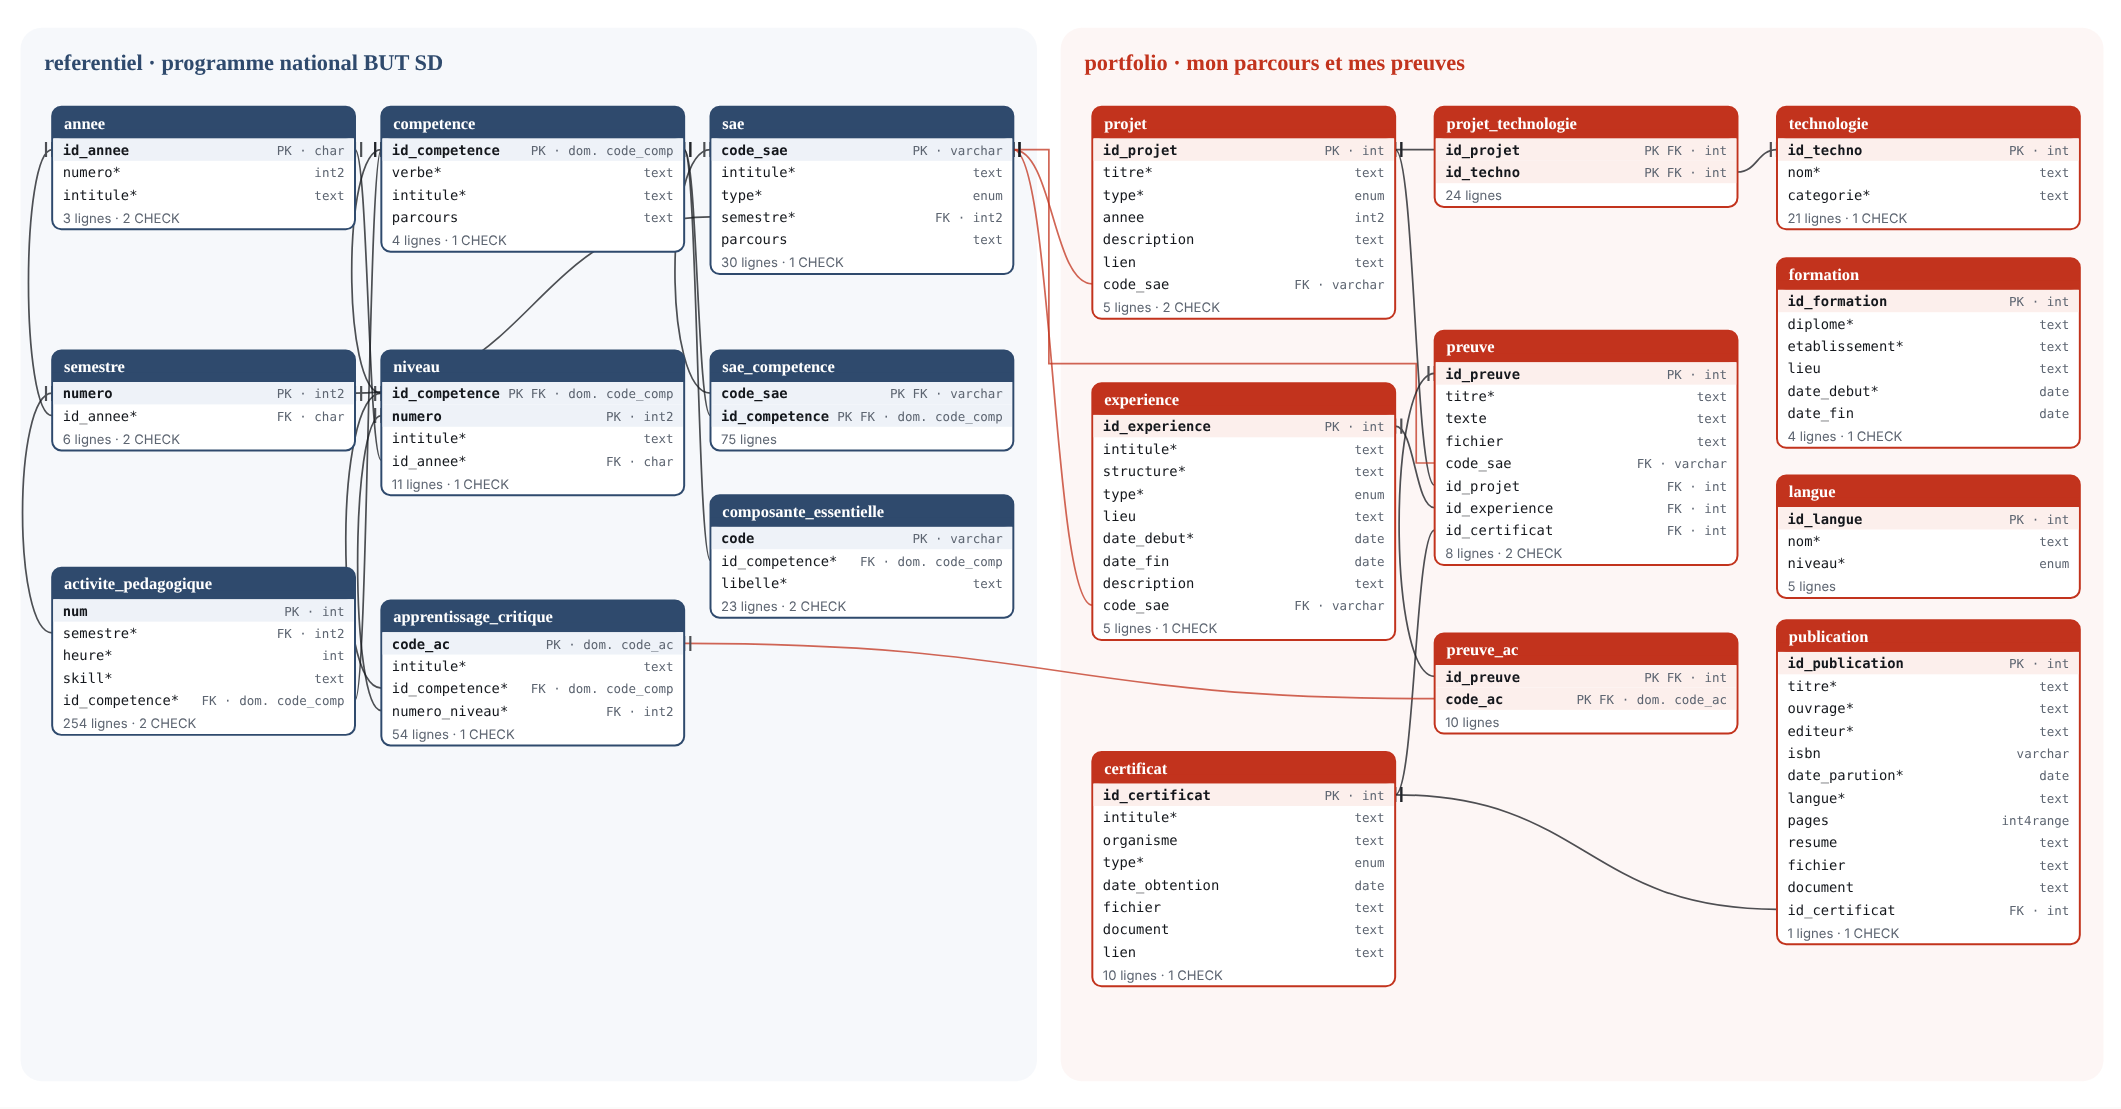
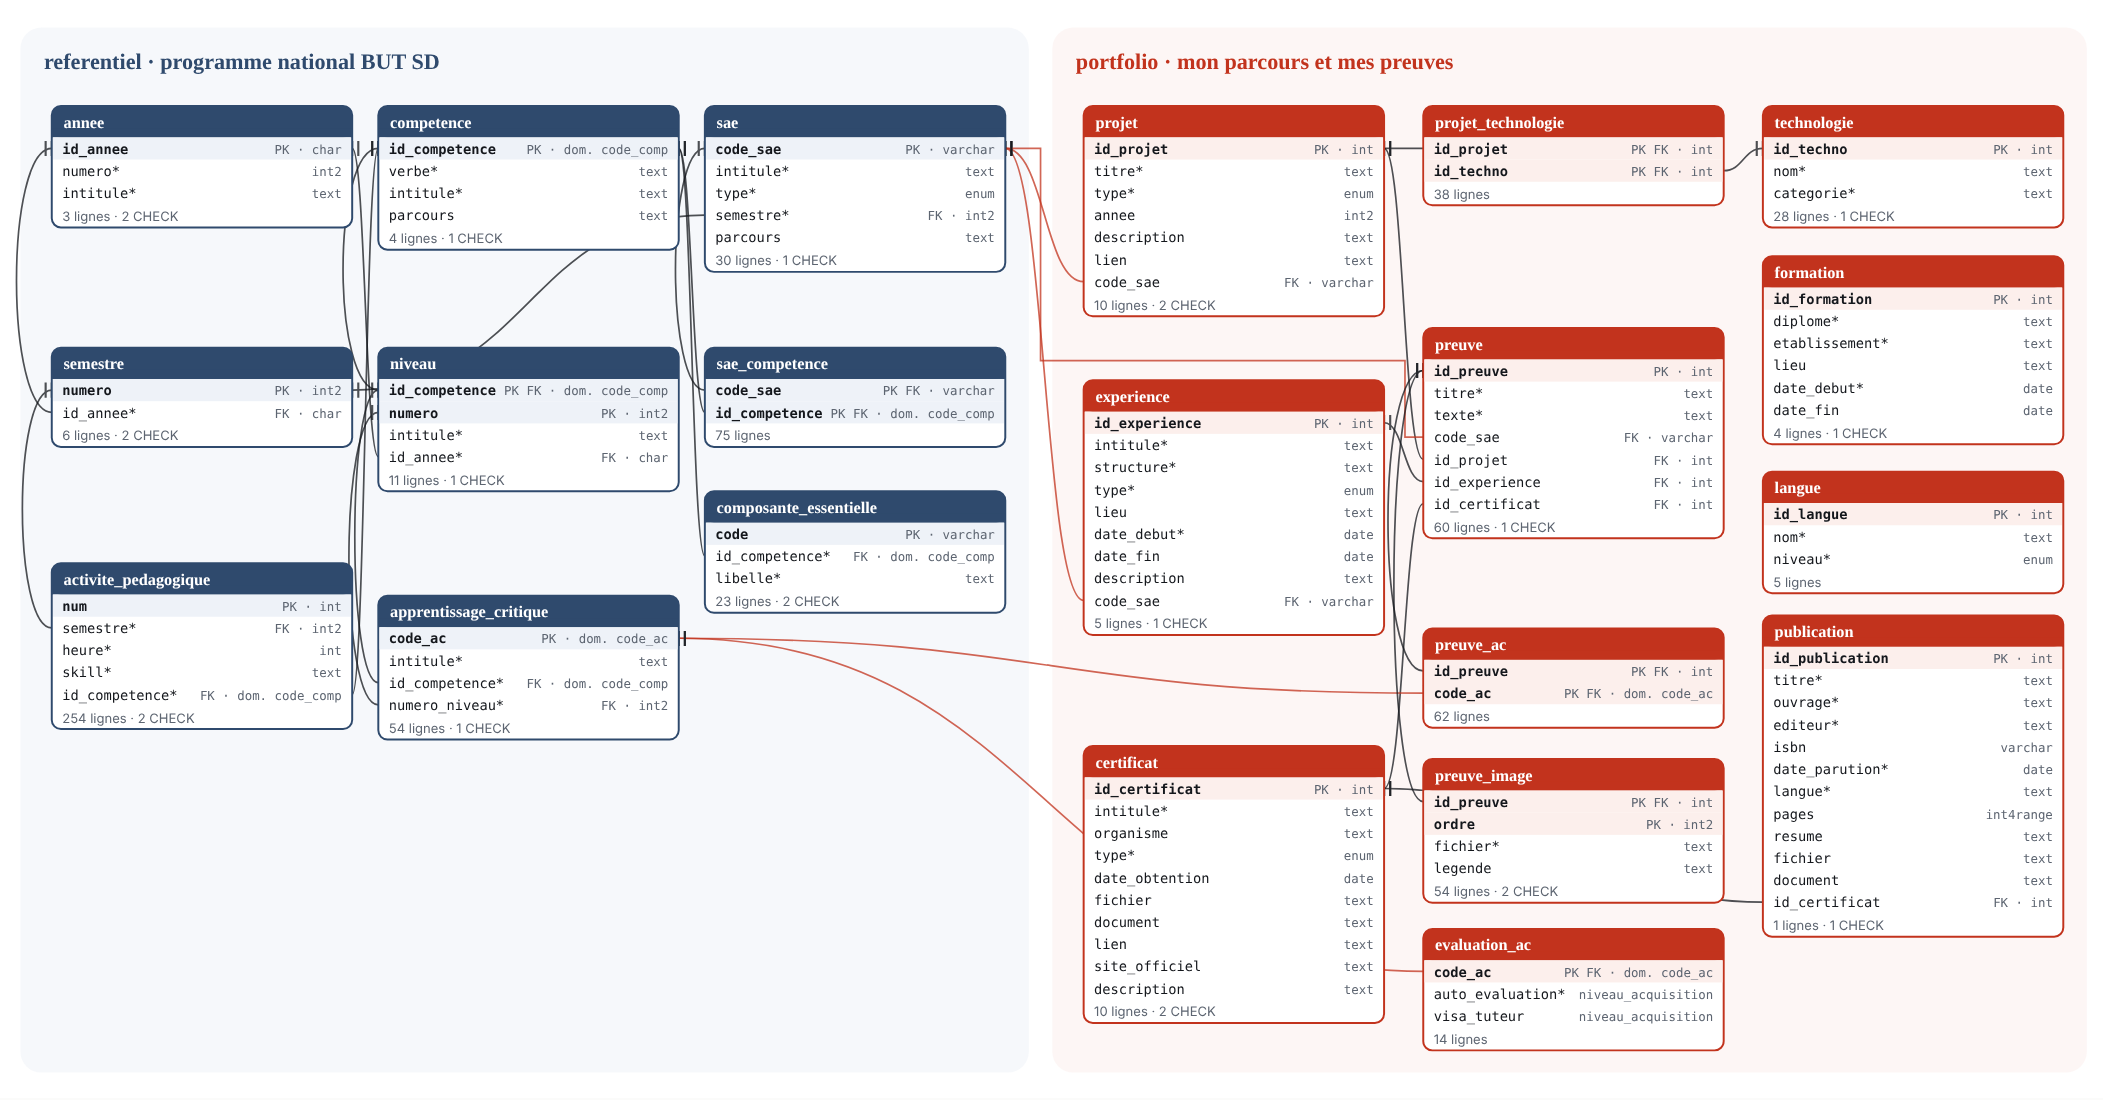
Nouvelles tables pour les captures des preuves et l'auto-evaluation des AC

diff --git a/serveur/server.js b/serveur/server.js
@@ -69,7 +69,7 @@ const TABLES_AUTORISEES = [
   "sae", "sae_competence", "activite_pedagogique", "heures_par_annee",
   // schéma portfolio (mon parcours)
   "formation", "experience", "projet", "publication", "technologie", "projet_technologie", "certificat", "langue",
-  "preuve", "preuve_ac", "preuve_detail", "couverture_ac"];
+  "preuve", "preuve_ac", "preuve_image", "evaluation_ac", "preuve_detail", "couverture_ac"];
 
 async function afficherTable(pool, nomTable) {
   // Un nom de table ne peut pas passer par $1 : on n'accepte que les tables de la liste (anti-injection SQL)
@@ -146,9 +146,11 @@ async function startServer() {
           "SELECT code, libelle FROM composante_essentielle WHERE id_competence = $1 ORDER BY code;", [id]);
         const niveaux = await pool.query(`
           SELECT n.numero, n.intitule, n.id_annee,
-                 JSON_AGG(JSON_BUILD_OBJECT('code_ac', ac.code_ac, 'intitule', ac.intitule) ORDER BY ac.code_ac) AS acs
+                 JSON_AGG(JSON_BUILD_OBJECT('code_ac', ac.code_ac, 'intitule', ac.intitule,
+                          'auto_evaluation', ev.auto_evaluation, 'visa_tuteur', ev.visa_tuteur) ORDER BY ac.code_ac) AS acs
           FROM niveau n
           JOIN apprentissage_critique ac ON ac.id_competence = n.id_competence AND ac.numero_niveau = n.numero
+          LEFT JOIN evaluation_ac ev ON ev.code_ac = ac.code_ac   -- LEFT : un AC sans auto-évaluation reste affiché
           WHERE n.id_competence = $1
           GROUP BY n.numero, n.intitule, n.id_annee
           ORDER BY n.numero;`, [id]);
@@ -225,11 +227,12 @@ async function startServer() {
           FROM projet_technologie pt JOIN technologie t ON t.id_techno = pt.id_techno
           WHERE pt.id_projet = $1 ORDER BY t.nom;`, [id]);
         const preuves = await pool.query(`
-          SELECT pr.id_preuve, pr.titre, pr.texte, ac.code_ac, ac.intitule AS intitule_ac
-          FROM preuve pr
-          JOIN preuve_ac pa ON pa.id_preuve = pr.id_preuve
+          SELECT pd.id_preuve, pd.titre, pd.texte, pd.images, ac.code_ac, ac.intitule AS intitule_ac
+          FROM preuve_detail pd
+          JOIN preuve pr ON pr.id_preuve = pd.id_preuve
+          JOIN preuve_ac pa ON pa.id_preuve = pd.id_preuve
           JOIN apprentissage_critique ac ON ac.code_ac = pa.code_ac
-          WHERE pr.id_projet = $1 ORDER BY ac.code_ac;`, [id]);
+          WHERE pr.id_projet = $1 ORDER BY ac.code_ac, pd.id_preuve;`, [id]);
         res.json({ ...projet.rows[0], technologies: technos.rows, preuves: preuves.rows });
       } catch (err) {
         console.error(err);
@@ -330,13 +333,13 @@ async function startServer() {
       const { id } = req.params;
       try {
         const query = `
-          SELECT pd.id_preuve, pd.titre, pd.texte, pd.fichier, pd.code_sae, pd.source,
+          SELECT pd.id_preuve, pd.titre, pd.texte, pd.images, pd.code_sae, pd.source,
                  ac.code_ac, ac.intitule AS intitule_ac
           FROM preuve_detail pd
           JOIN preuve_ac pa ON pa.id_preuve = pd.id_preuve
           JOIN apprentissage_critique ac ON ac.code_ac = pa.code_ac
           WHERE ac.id_competence = $1
-          ORDER BY ac.code_ac;
+          ORDER BY ac.code_ac, pd.id_preuve;
         `;
         const { rows } = await pool.query(query, [id]);
         res.json(rows);

diff --git a/client/competences.js b/client/competences.js
@@ -71,7 +71,8 @@ async function highlightSelection(comp) {
         <ul class="petit">${data.composantes.map(c => `<li>${esc(c.libelle)}</li>`).join("")}</ul>
         ${data.niveaux.map(n => `
           <h3>Niveau ${n.numero} · ${esc(n.intitule)} <span class="secondaire petit">(${esc(n.id_annee)})</span></h3>
-          <ul class="petit">${n.acs.map(ac => `<li><strong>${esc(ac.code_ac)}</strong> ${esc(ac.intitule)}</li>`).join("")}</ul>`).join("")}`;
+          <ul class="petit acs">${n.acs.map(ac => `<li><strong>${esc(ac.code_ac)}</strong> ${esc(ac.intitule)}
+            ${pastille(ac.auto_evaluation, "Auto-évaluation : ")}${pastille(ac.visa_tuteur, "Visa du tuteur : ")}</li>`).join("")}</ul>`).join("")}`;
     }
     afficherPreuves(await chargerJSON(`/api/competence/${comp}/preuves`));
   } catch {
@@ -131,21 +132,28 @@ function setActive(id){
 document.getElementById("btnBarres").addEventListener("click",()=>{ setActive("btnBarres"); switchChart("bar"); });
 document.getElementById("btnCourbes").addEventListener("click",()=>{ setActive("btnCourbes"); switchChart("line"); });
 
-// Preuves de la compétence sélectionnée (route /api/competence/:id/preuves)
+// Preuves de la compétence sélectionnée (route /api/competence/:id/preuves),
+// regroupées par apprentissage critique
 function afficherPreuves(preuves) {
   const zone = document.getElementById("preuves");
   if (preuves.length === 0) {
     zone.innerHTML = `<p class="secondaire">Pas encore de preuve pour cette compétence.</p>`;
     return;
   }
-  zone.innerHTML = preuves.map(p => `
-    <div class="carte preuve">
-      ${p.fichier ? `<img src="/preuves/${esc(p.fichier)}" alt="Preuve ${esc(p.code_ac)}">` : ""}
-      <p class="secondaire petit">${esc(p.code_ac)}${p.code_sae ? " · " + esc(p.code_sae) : ""} · ${esc(p.source)}</p>
-      <h3>${esc(p.titre)}</h3>
-      <p class="petit"><strong>${esc(p.intitule_ac)}</strong></p>
-      <p class="secondaire petit">${esc(p.texte ?? "")}</p>
-    </div>`).join("");
+  const codes = [...new Set(preuves.map(p => p.code_ac))];   // AC dans l'ordre reçu
+  zone.innerHTML = codes.map(code => {
+    const liste = preuves.filter(p => p.code_ac === code);
+    return `
+      <h3 class="titre-ac">${esc(code)} <span class="secondaire petit">${esc(liste[0].intitule_ac)}</span></h3>
+      <div class="grille">${liste.map(p => `
+        <div class="carte preuve">
+          ${imagesPreuve(p.images, p.titre)}
+          <p class="secondaire petit">${esc(p.source)}</p>
+          <h3>${esc(p.titre)}</h3>
+          <p class="secondaire petit">${esc(p.texte)}</p>
+        </div>`).join("")}
+      </div>`;
+  }).join("");
 }
 
 // Couverture du référentiel : AC démontrés par au moins une preuve, par compétence

diff --git a/client/style.css b/client/style.css
@@ -66,6 +66,19 @@ label { font-weight: 600; font-size: 14px; display: block; margin-bottom: 4px; }
 /* ---------- Graphiques et images ---------- */
 .graphique { position: relative; height: 320px; }
 .preuve img { width: 100%; border-radius: 6px; border: 1px solid var(--bord); margin-bottom: 8px; }
+.carte.preuve { align-self: start; }
+.captures { display: grid; grid-template-columns: repeat(3, 1fr); gap: 6px; margin-bottom: 8px; }
+.captures a { text-decoration: none; display: block; min-width: 0; }
+.captures .principale { grid-column: 1 / -1; }
+.captures .principale img { max-height: 220px; object-fit: contain; background: #FFF; margin-bottom: 2px; }
+.captures .vignette img { height: 56px; object-fit: cover; object-position: top left; margin-bottom: 2px; }
+.captures span { display: block; font-size: 12px; line-height: 1.3; }
+.titre-ac { margin-top: 24px; }
+.titre-ac:first-child { margin-top: 0; }
+.acs li { margin-bottom: 6px; }
+.pastille { display: inline-block; font-size: 12px; font-weight: 600; border-radius: 999px; padding: 1px 9px; margin: 2px 4px 0 0; border: 1px solid var(--encre); }
+.pastille.acquis { background: var(--encre); color: #FFF; }
+.pastille.en-cours { background: var(--carte); color: var(--encre); }
 tr.selectionne { background: #FBE3DE; font-weight: 600; }
 table { border-collapse: collapse; width: 100%; background: var(--carte); }
 th, td { text-align: left; border-bottom: 1px solid var(--bord); padding: 8px 10px; vertical-align: top; }

diff --git a/client/commun.js b/client/commun.js
@@ -23,3 +23,21 @@ function moisAnnee(dateTexte) {
   const noms = ["janv.", "févr.", "mars", "avr.", "mai", "juin", "juil.", "août", "sept.", "oct.", "nov.", "déc."];
   return `${noms[Number(mois) - 1]} ${annee}`;
 }
+
+// Captures d'écran d'une preuve : la première en grand, les autres en vignettes.
+// Un clic ouvre l'image en taille réelle dans un nouvel onglet.
+function imagesPreuve(images, titre) {
+  if (!images || images.length === 0) return "";
+  return `<div class="captures">${images.map((im, i) => `
+    <a href="/preuves/${esc(im.fichier)}" target="_blank" class="${i === 0 ? "principale" : "vignette"}">
+      <img src="/preuves/${esc(im.fichier)}" alt="${esc(im.legende ?? titre)}" loading="lazy">
+      ${im.legende ? `<span class="petit secondaire">${esc(im.legende)}</span>` : ""}
+    </a>`).join("")}</div>`;
+}
+
+// Pastille d'auto-évaluation d'un AC (Acquis, En cours d'acquisition)
+function pastille(etat, prefixe = "") {
+  if (!etat) return "";
+  const classe = etat === "Acquis" ? "acquis" : "en-cours";
+  return `<span class="pastille ${classe}">${esc(prefixe + etat)}</span>`;
+}

diff --git a/client/projets.js b/client/projets.js
@@ -43,8 +43,13 @@ async function chargerDetail(id) {
     <p>${p.technologies.map(t => `<span class="etiquette">${esc(t.nom)}</span>`).join("")}</p>
     <h3>Apprentissages critiques démontrés</h3>
     ${p.preuves.length === 0 ? `<p class="secondaire">Aucune preuve pour l'instant.</p>` :
-      p.preuves.map(pr => `<p><strong>${esc(pr.code_ac)}</strong> · ${esc(pr.intitule_ac)}<br>
-        <span class="secondaire petit">${esc(pr.titre)} : ${esc(pr.texte)}</span></p>`).join("")}`;
+      `<div class="grille">${p.preuves.map(pr => `
+        <div class="carte preuve">
+          ${imagesPreuve(pr.images, pr.titre)}
+          <p class="secondaire petit"><strong>${esc(pr.code_ac)}</strong> · ${esc(pr.intitule_ac)}</p>
+          <h3>${esc(pr.titre)}</h3>
+          <p class="secondaire petit">${esc(pr.texte)}</p>
+        </div>`).join("")}</div>`}`;
   zone.scrollIntoView({ behavior: "smooth", block: "nearest" });
 }
 

diff --git a/client/competences.html b/client/competences.html
@@ -48,12 +48,14 @@
     <div class="carte"><div class="graphique" style="height:240px"><canvas id="chartCouverture"></canvas></div></div>
   </section>
 
-  <section class="deux-colonnes">
+  <section>
     <div class="carte" id="description"><p class="secondaire">Sélectionnez une compétence.</p></div>
-    <div>
-      <h2>Mes preuves</h2>
-      <div class="grille" id="preuves"></div>
-    </div>
+  </section>
+
+  <section>
+    <h2>Mes preuves</h2>
+    <p class="secondaire petit">Tirées de mes fiches portfolio, classées par apprentissage critique. Cliquez sur une capture pour l'ouvrir en grand.</p>
+    <div id="preuves"></div>
   </section>
 </main>
 

diff --git a/AVANCEMENT.md b/AVANCEMENT.md
@@ -142,11 +142,11 @@ La maquette précède l'architecture. L'architecture précède la partie serveur
 - Refonte de la base sur le programme national du BUT SD : schéma `referentiel` (compétences, composantes essentielles, niveaux, 54 AC, 30 SAÉ, stages et portfolios) et schéma `portfolio` ; une preuve peut démontrer plusieurs AC et se rattache à une SAÉ au plus ; règles de cohérence vérifiées par la base
 - Corrections : les matières de BUT1 rattachées à C4 passent en C1 (C4 commence en 2e année) ; stage Serviciale rattaché au stage officiel du S4, portfolio rattaché au portfolio du S5
 - Ajout de la publication « Entre Raças e Papéis » (Caminhos da Leitura, Ethale Publishing, 2024) avec un extrait en annexe, et de la distinction BSGCT 2026 avec sa date ; maquette mise à jour avec le nouveau schéma de la base, pages HTML de la maquette remplacées par leurs images
+- Tables `preuve_image` (captures d'écran des preuves) et `evaluation_ac` (auto-évaluation et visa du tuteur) ; les preuves de test sont retirées, les preuves réelles de mes fiches portfolio sont ajoutées petit à petit, une SAÉ à la fois
 
 ### À faire ensuite
 - TD3, exercice 1 : schéma relationnel reliant toutes les tables, avec une table des preuves (image et/ou texte), à faire valider par l'enseignante
 - TD3, exercices 4 et 5 : intégrer la table des preuves dans `bdd/init_db.sql`, ajouter les routes d'accès à une preuve et à toutes les preuves, les afficher dans le site
-- Remplacer les images de test par les preuves du portfolio
 - Relire et compléter `data/projets.csv`, puis transférer les données dans la base
 
 ## Retards, difficultés et changements de planning

diff --git a/README.md b/README.md
@@ -75,6 +75,8 @@ Pour arrêter la base : `docker compose down` (les données sont conservées dan
 - Une preuve démontre un ou plusieurs apprentissages critiques (table `preuve_ac`), se rattache à une SAÉ au plus, et vient d'un projet, d'une expérience ou d'un certificat.
 - Une SAÉ cible une ou plusieurs compétences (table `sae_competence`), comme dans le programme national.
 - Un déclencheur refuse qu'une preuve démontre un AC qui n'appartient à aucune compétence de sa SAÉ.
+- Une preuve a un texte et zéro, une ou plusieurs captures d'écran ordonnées (table `preuve_image`).
+- Chaque AC peut avoir mon auto-évaluation et le visa du tuteur (table `evaluation_ac`), repris dans la vue `couverture_ac`.
 - Types fermés (ENUM), domaines pour les codes de compétence et d'AC, contraintes CHECK et index sur les clés étrangères.
 
 ## Routes de l'API
@@ -84,7 +86,7 @@ Pour arrêter la base : `docker compose down` (les données sont conservées dan
 | `GET /api/heures` | heures du BUT par compétence |
 | `GET /api/heures-par-annee` | heures par année et par compétence |
 | `GET /api/competences`, `GET /api/competence/:id` | compétences du BUT |
-| `GET /api/competence/:id/preuves` | preuves d'une compétence, avec leur source |
+| `GET /api/competence/:id/preuves` | preuves d'une compétence, avec leur source et leurs captures |
 | `GET /api/projets?type=…&techno=…` | projets, filtrables par type et par technologie |
 | `GET /api/projet/:id` | un projet, ses technologies et ses preuves |
 | `GET /api/technologies` | technologies et nombre de projets |
